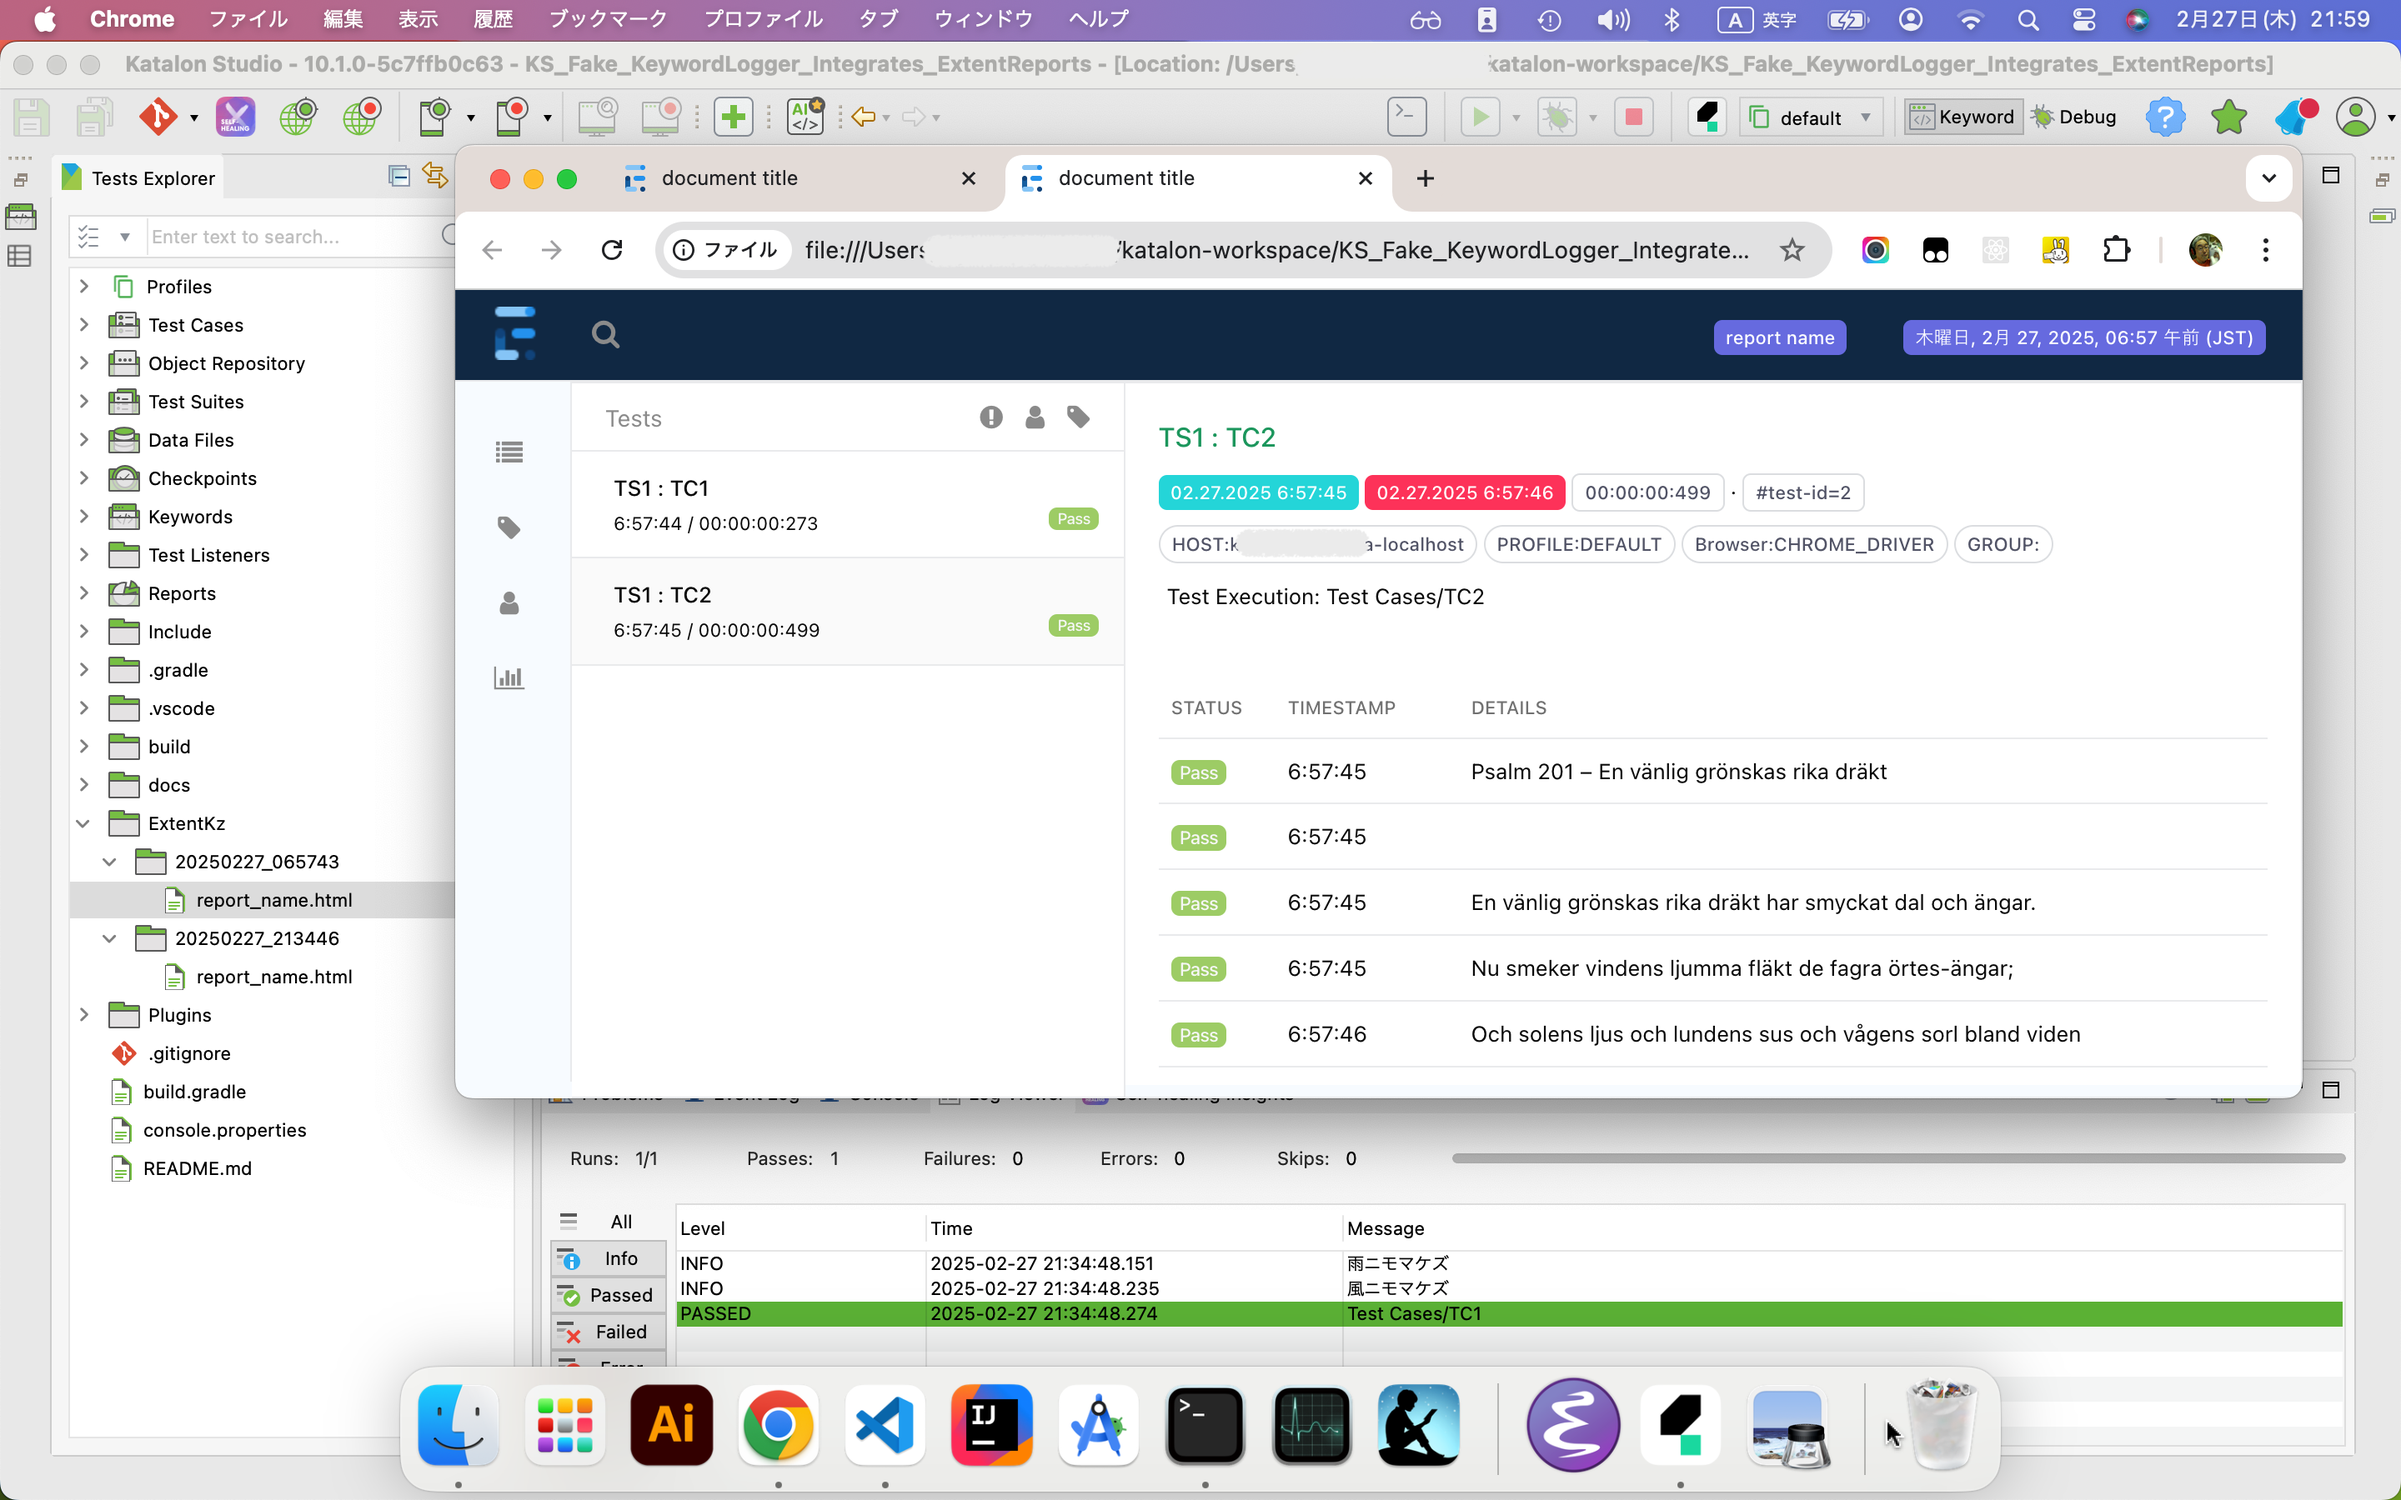
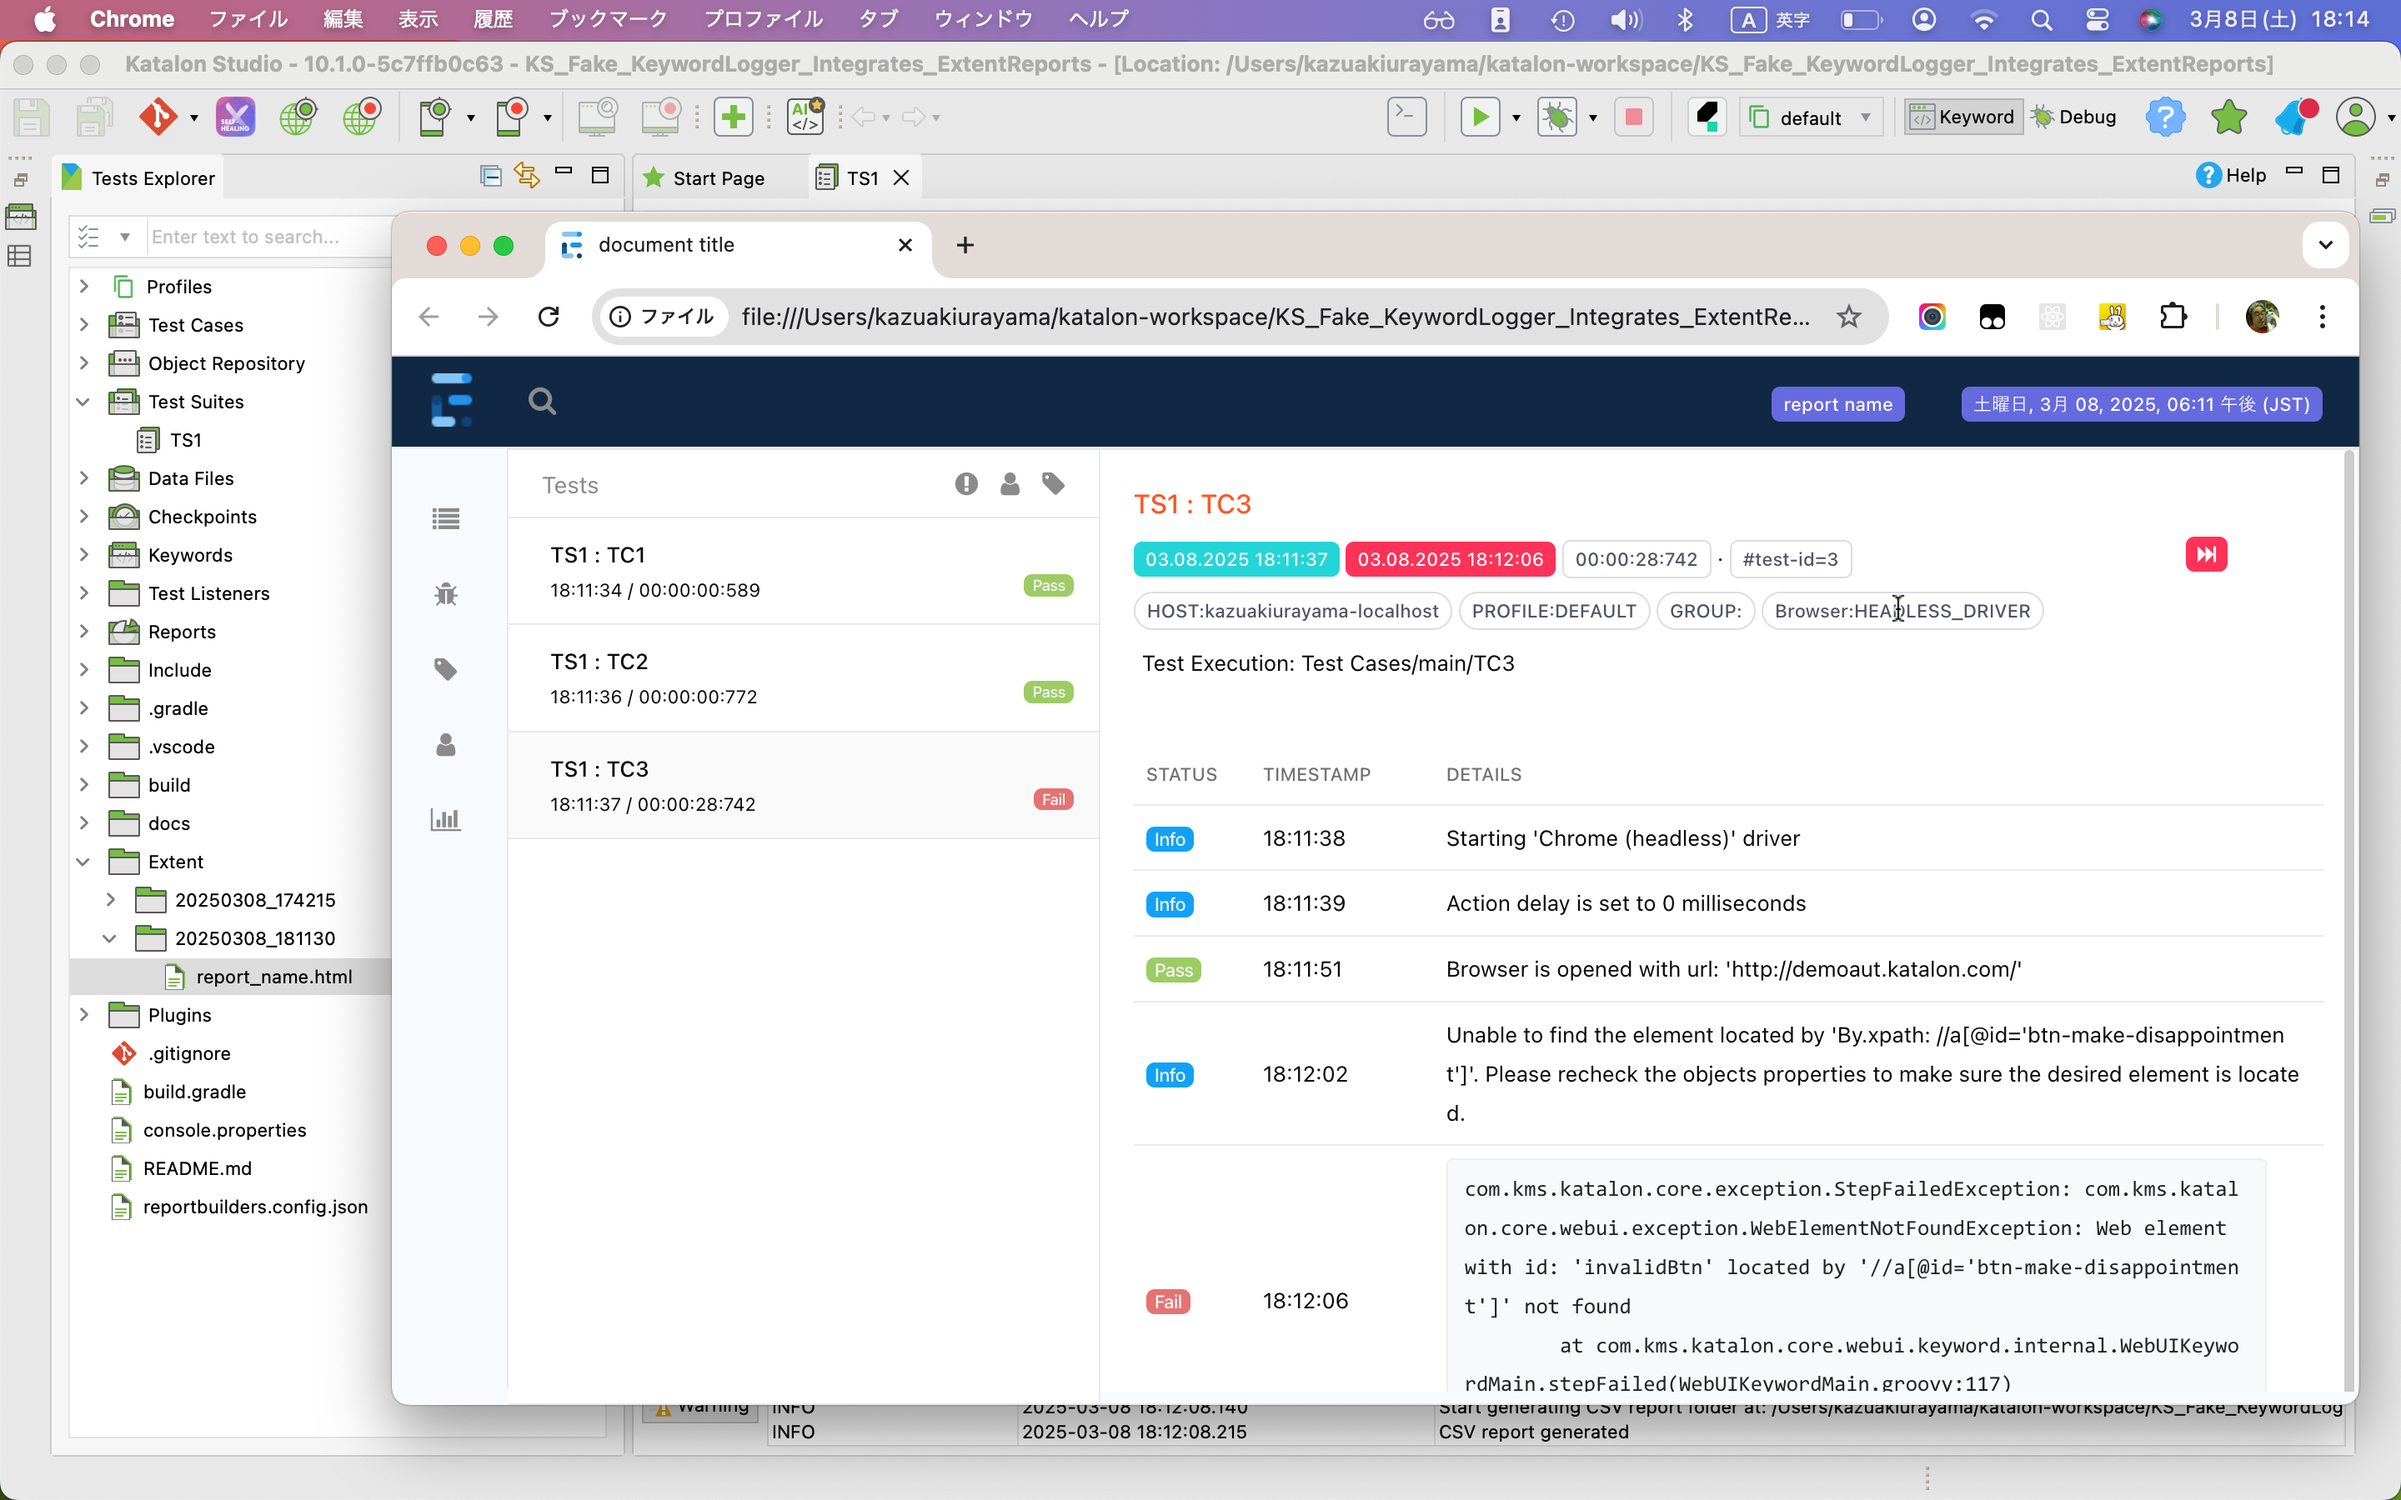
update the docs

diff --git a/Test Suites/TS1.ts b/Test Suites/TS1.ts
@@ -14,14 +14,14 @@
    <testCaseLink>
       <guid>b09e439e-f2c2-4fb4-9242-75bd6c430b2b</guid>
       <isReuseDriver>false</isReuseDriver>
-      <isRun>false</isRun>
+      <isRun>true</isRun>
       <testCaseId>Test Cases/main/TC1</testCaseId>
       <usingDataBindingAtTestSuiteLevel>true</usingDataBindingAtTestSuiteLevel>
    </testCaseLink>
    <testCaseLink>
       <guid>450efe73-93ff-41e7-868a-755ebcc4616a</guid>
       <isReuseDriver>false</isReuseDriver>
-      <isRun>false</isRun>
+      <isRun>true</isRun>
       <testCaseId>Test Cases/main/TC2</testCaseId>
       <usingDataBindingAtTestSuiteLevel>true</usingDataBindingAtTestSuiteLevel>
    </testCaseLink>
